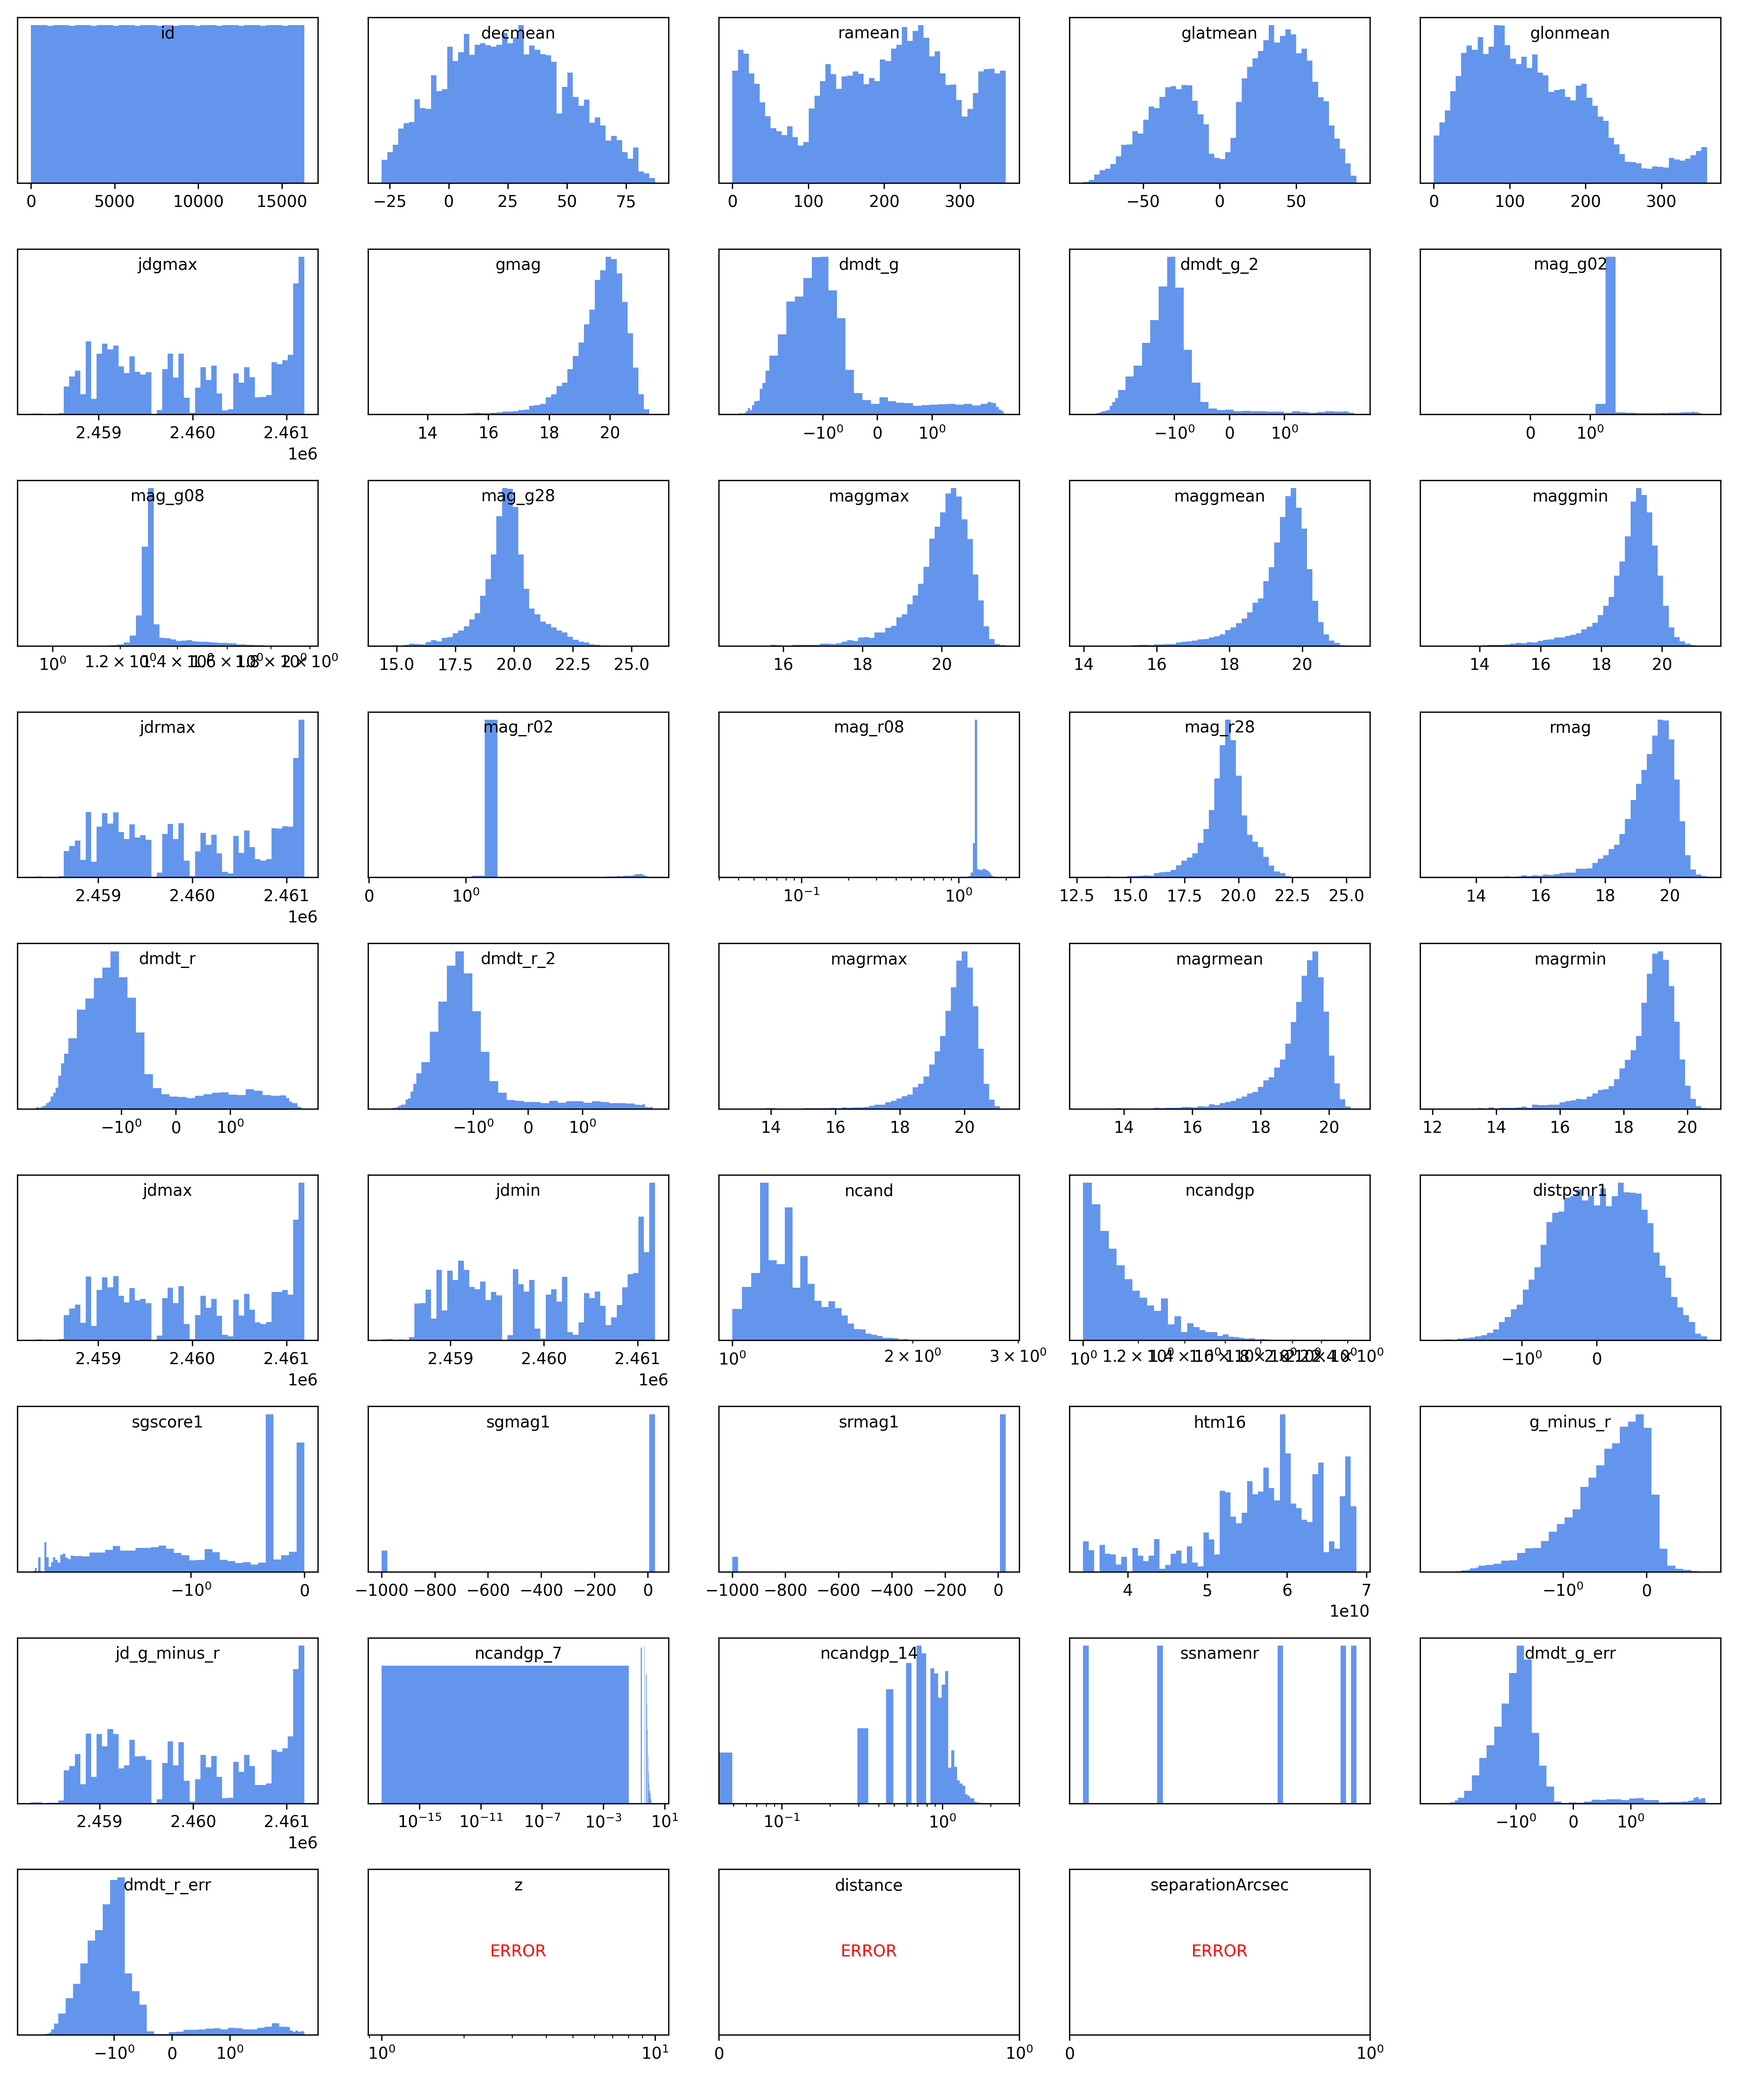
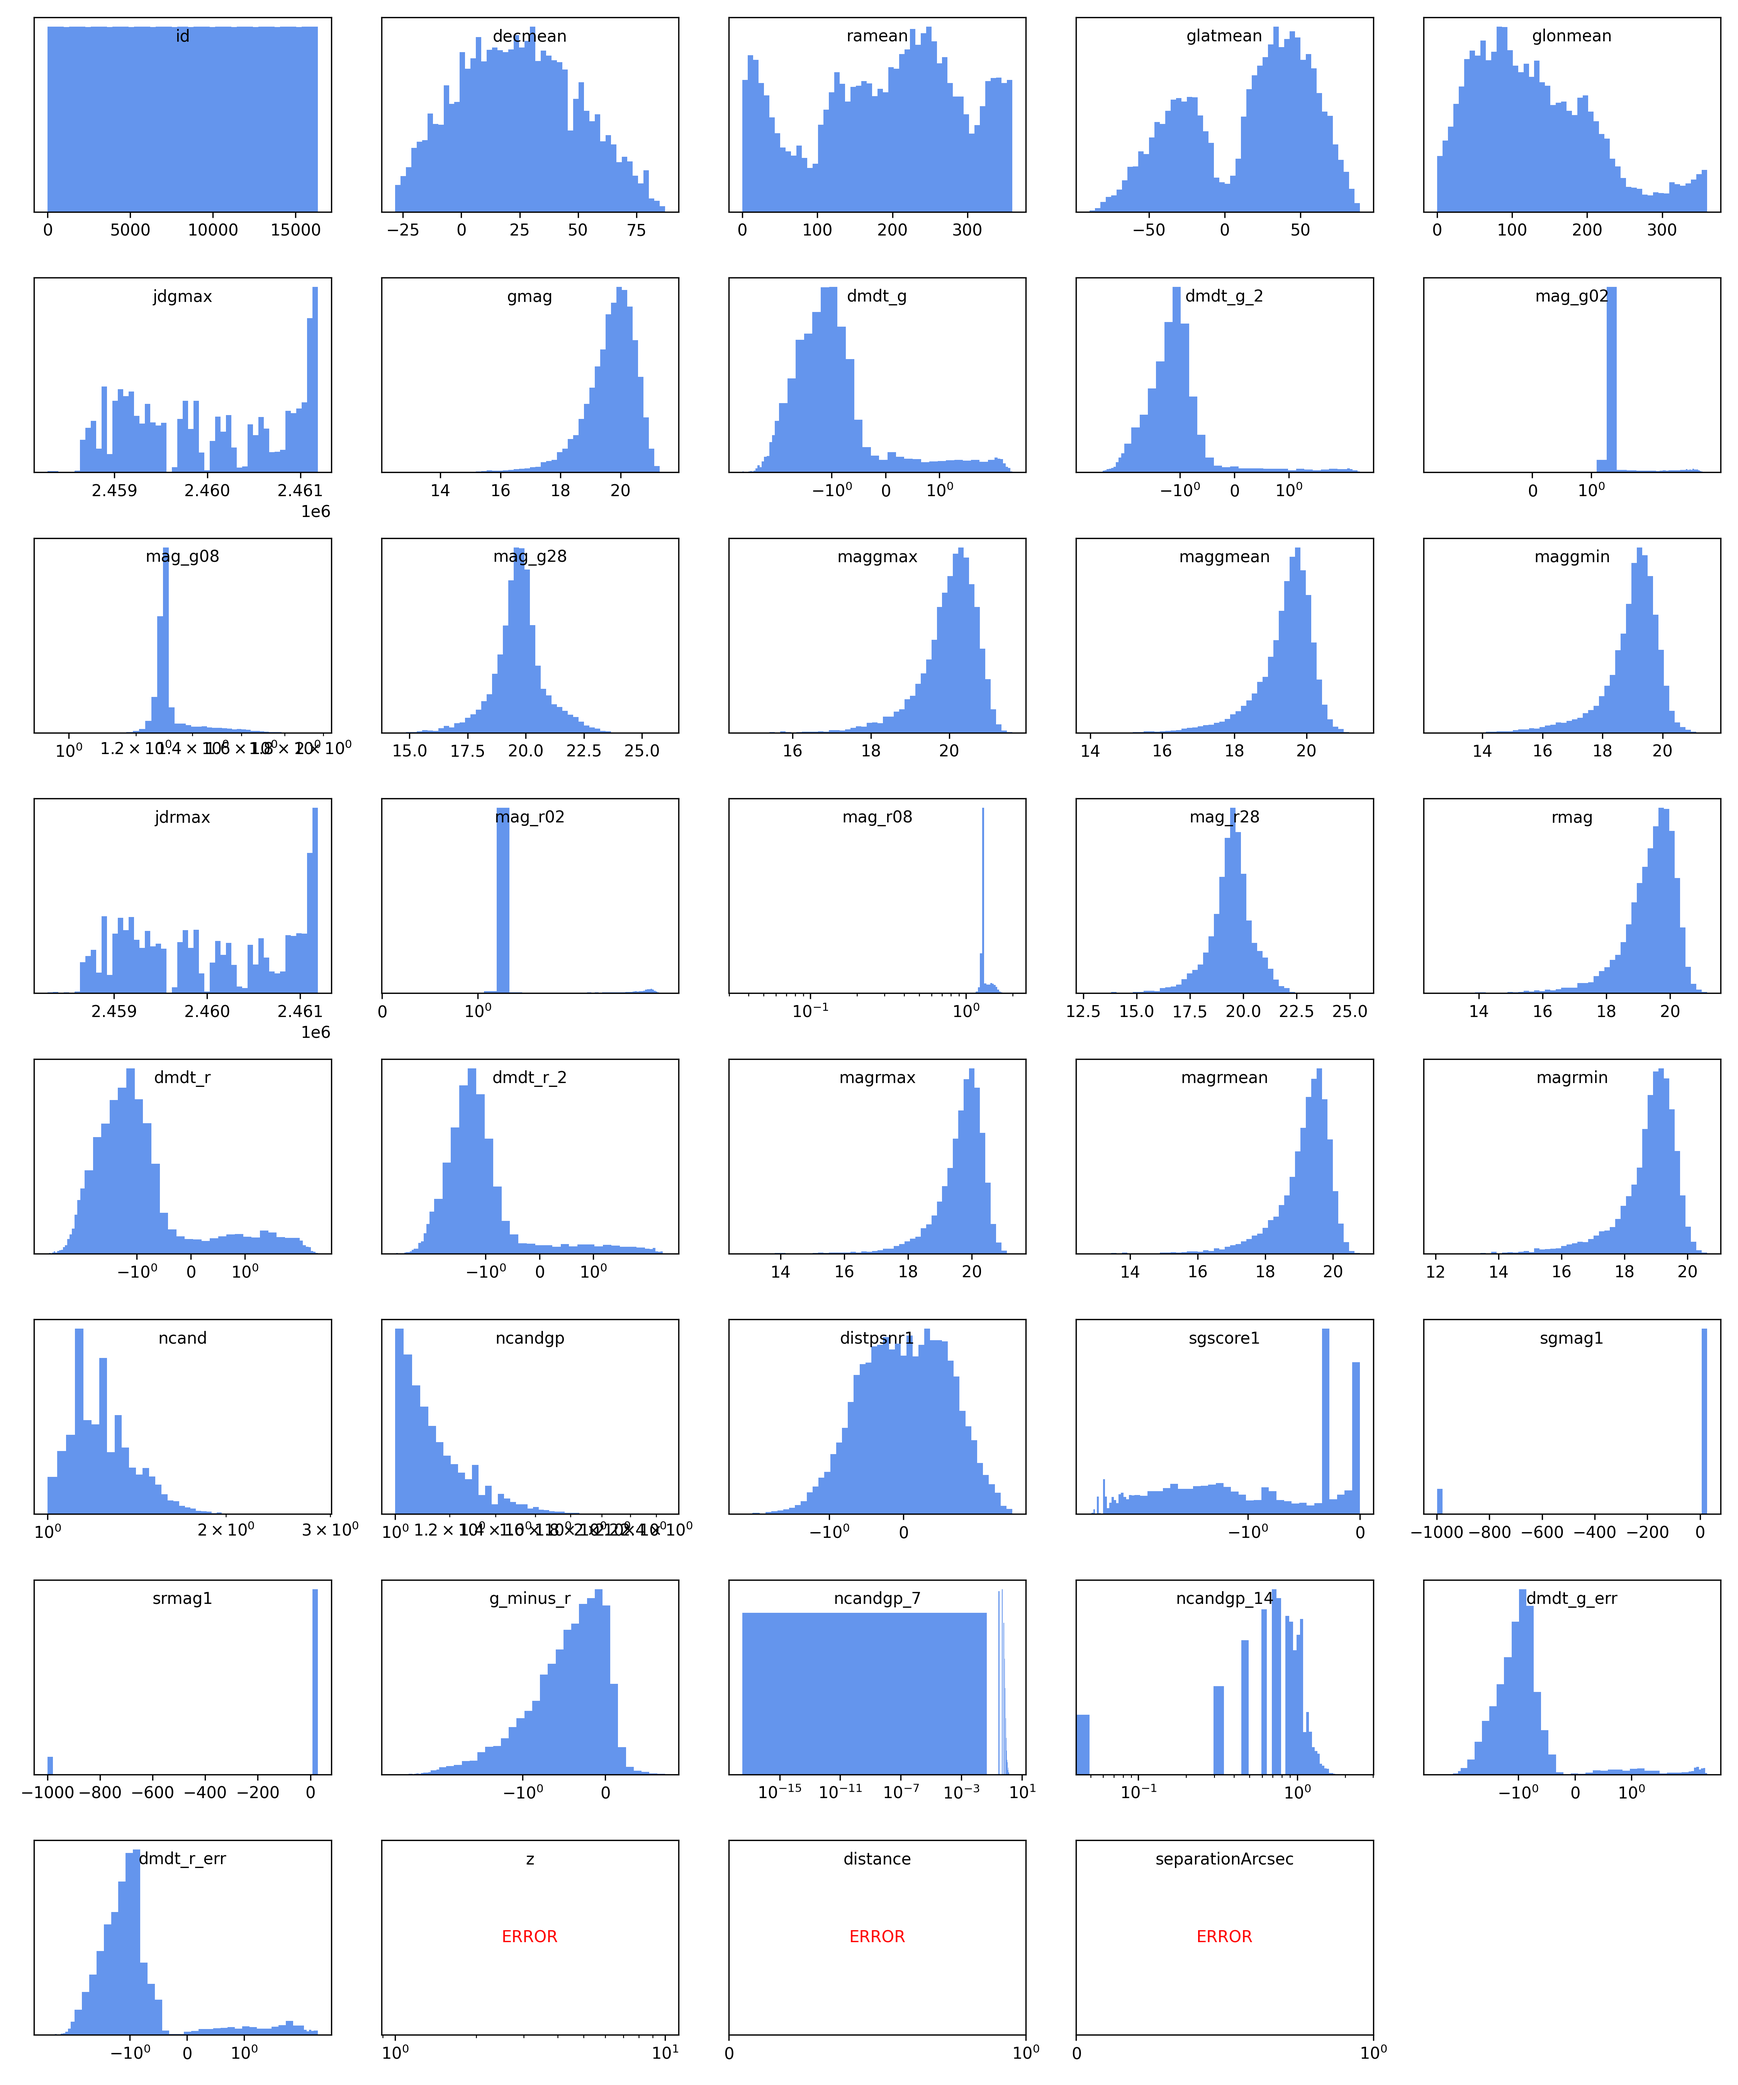
First attempt at getting some classification to work

diff --git a/src/functions_classification.py b/src/functions_classification.py
@@ -1,0 +1,69 @@
+import pandas as pd
+import numpy as np
+from sklearn.preprocessing import RobustScaler
+from sklearn.impute import SimpleImputer
+
+from sklearn.decomposition import PCA
+import umap 
+import hdbscan
+
+
+df = pd.read_csv('../data/AppML_ZTF_table.csv')
+
+# Drop identifier/metadata columns
+drop_cols = ["id", "objectId", 'decstd', 'rastd', "htm16", "ssnamenr", "tns_name", "tns_type",
+             "host_name", "classification", "classificationReliability"]
+features = df.drop(columns=drop_cols)
+
+# Check missingness — crucial before choosing imputation strategy
+print(features.isnull().mean().sort_values(ascending=False).head(20))
+
+# Impute (median is robust to outlier-heavy astro data)
+imputer = SimpleImputer(strategy="median")
+X = imputer.fit_transform(features)
+
+# Scale — RobustScaler handles the heavy-tailed distributions typical in ZTF
+scaler = RobustScaler()
+X_scaled = scaler.fit_transform(X)
+
+# PCA to check variance explained
+pca = PCA().fit(X_scaled)
+cumvar = np.cumsum(pca.explained_variance_ratio_)
+# Find n_components for ~90% variance
+
+# UMAP for visualization and as clustering input
+reducer = umap.UMAP(n_components=2, random_state=42, n_neighbors=30, min_dist=0.1)
+embedding = reducer.fit_transform(X_scaled)
+
+clusterer = hdbscan.HDBSCAN(min_cluster_size=100, min_samples=10, metric="euclidean")
+labels = clusterer.fit_predict(embedding)  # or X_scaled directly
+
+# -1 = noise points in HDBSCAN
+print(pd.Series(labels).value_counts())
+
+from sklearn.metrics import adjusted_rand_score, silhouette_score
+
+# External validation against known labels
+known_mask = df["classification"].notna()
+ari = adjusted_rand_score(df.loc[known_mask, "classification"], labels[known_mask])
+
+# Internal validation
+sil = silhouette_score(X_scaled, labels)
+
+# make a plot of current clusters in UMAP space
+import matplotlib.pyplot as plt
+import seaborn as sns
+
+sns.scatterplot(x=embedding[:, 0], y=embedding[:, 1], hue=labels)
+plt.title(f"HDBSCAN Clusters in UMAP Space\nARI: {ari:.2f}, Silhouette: {sil:.2f}")
+plt.legend(title="Cluster")
+plt.show()
+
+# plot the outliers and show their classifications according to the TNS catalog
+outlier_scores = clusterer.outlier_scores_
+print("Outlier scores for noise points (label=-1):", outlier_scores[labels == -1])
+plt.hist(outlier_scores, bins=50)
+plt.title("HDBSCAN Outlier Scores")
+plt.xlabel("Outlier Score")
+plt.ylabel("Frequency")
+plt.show()

diff --git a/src/functions_io.py b/src/functions_io.py
@@ -1,0 +1,53 @@
+import pandas as pd
+import numpy as np
+from sklearn.preprocessing import RobustScaler
+from sklearn.impute import SimpleImputer
+
+
+def read_csv(filename='../data/AppML_ZTF_table.csv'):
+    df = pd.read_csv(filename)
+    return df
+
+def read_csv_numpy(filename='../data/AppML_ZTF_table.csv'):
+    data = np.genfromtxt(filename, delimiter=',', names=True)
+    return data
+
+def read_get_classification_labels(filename='../data/AppML_ZTF_table.csv', type="classification"):
+    """Get just the classification labels as a numpy array. 
+    Useful for external validation.
+    Can specify other label types (e.g. tns_type) if needed.
+    """
+    df = pd.read_csv(filename)
+    return df[type].values
+
+def get_object_ids(filename='../data/AppML_ZTF_table.csv', idxs=None):
+    """Get object IDs for given indices. Useful for cross-referencing with TNS."""
+    df = pd.read_csv(filename)
+    if idxs is not None:
+        return df.loc[idxs, 'objectId'].values
+    else:
+        return df['objectId'].values
+
+def remove_columns(df, columns_to_remove=None):
+    """
+    Remove specified columns from the DataFrame. 
+    If no columns are specified, remove a default set of metadata columns.
+    """
+    if columns_to_remove is None:
+        drop_cols = ["id", "objectId", 'decstd', 'rastd', "htm16", "ssnamenr", "tns_name", "tns_type",
+                 "host_name", "classification", "classificationReliability"]
+    else:
+        drop_cols = columns_to_remove
+    df = df.drop(columns=drop_cols)
+    return df
+
+def impute_and_scale(df):
+    # Impute (median is robust to outlier-heavy astro data)
+    imputer = SimpleImputer(strategy="median")
+    X = imputer.fit_transform(df)
+
+    # Scale — RobustScaler handles the heavy-tailed distributions typical in ZTF
+    scaler = RobustScaler()
+    X_scaled = scaler.fit_transform(X)
+    
+    return X_scaled
